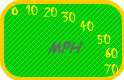
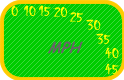
meters miles numeric mantras ...

diff --git a/EthelsTurn/Assets/Scripts/WheelDrive.cs b/EthelsTurn/Assets/Scripts/WheelDrive.cs
@@ -67,6 +67,8 @@ public class WheelDrive : MonoBehaviour
 	void startDashItems(){
 		this.speedNeedle = new SimpleGaugeNeedle();
 		this.speedNeedle.Needle = this.NeedleIm;
+		this.mphNeedle = new SimpleGaugeNeedle();
+		this.mphNeedle.Needle = this.NeedleMph;
 	}
 
 	void setSpeedKph(){
@@ -77,6 +79,9 @@ public class WheelDrive : MonoBehaviour
 
 	protected void setSpeedMph(){
 		this.speedMph = this.speedKph * 0.621371;
+		Debug.Log(this.speedMph);
+		this.mphNeedle.getTilter(this.speedMph);
+		this.mphNeedle.tiltNeedle();
 	}
 
 	// This is a really simple approach to updating wheels.
@@ -85,6 +90,7 @@ public class WheelDrive : MonoBehaviour
 	void Update()
 	{
 		this.setSpeedKph();
+		this.setSpeedMph();
 		m_Wheels[0].ConfigureVehicleSubsteps(criticalSpeed, stepsBelow, stepsAbove);
 
 		float angle = maxAngle * Input.GetAxis("Horizontal");
